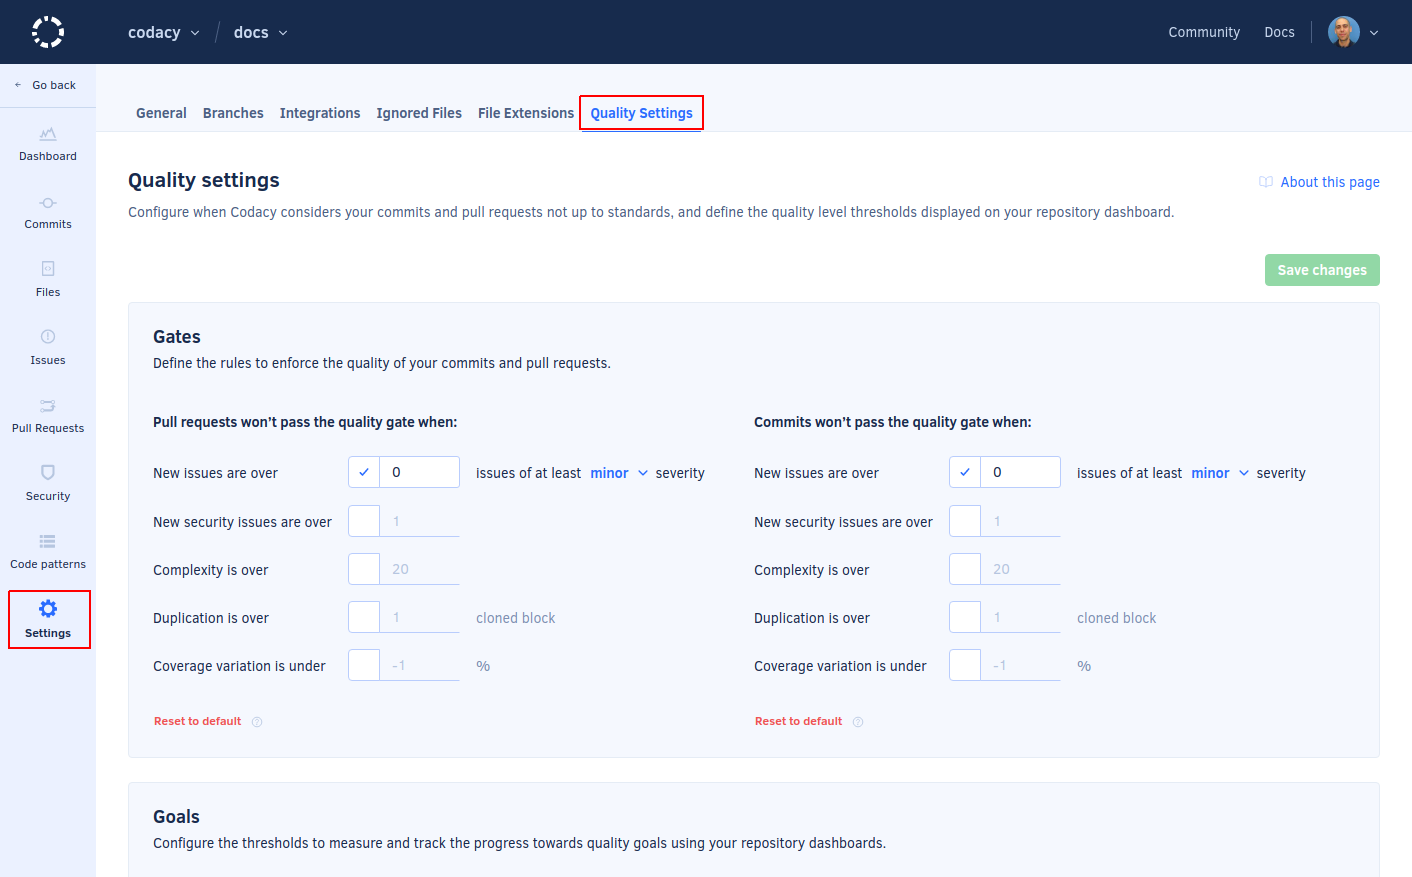
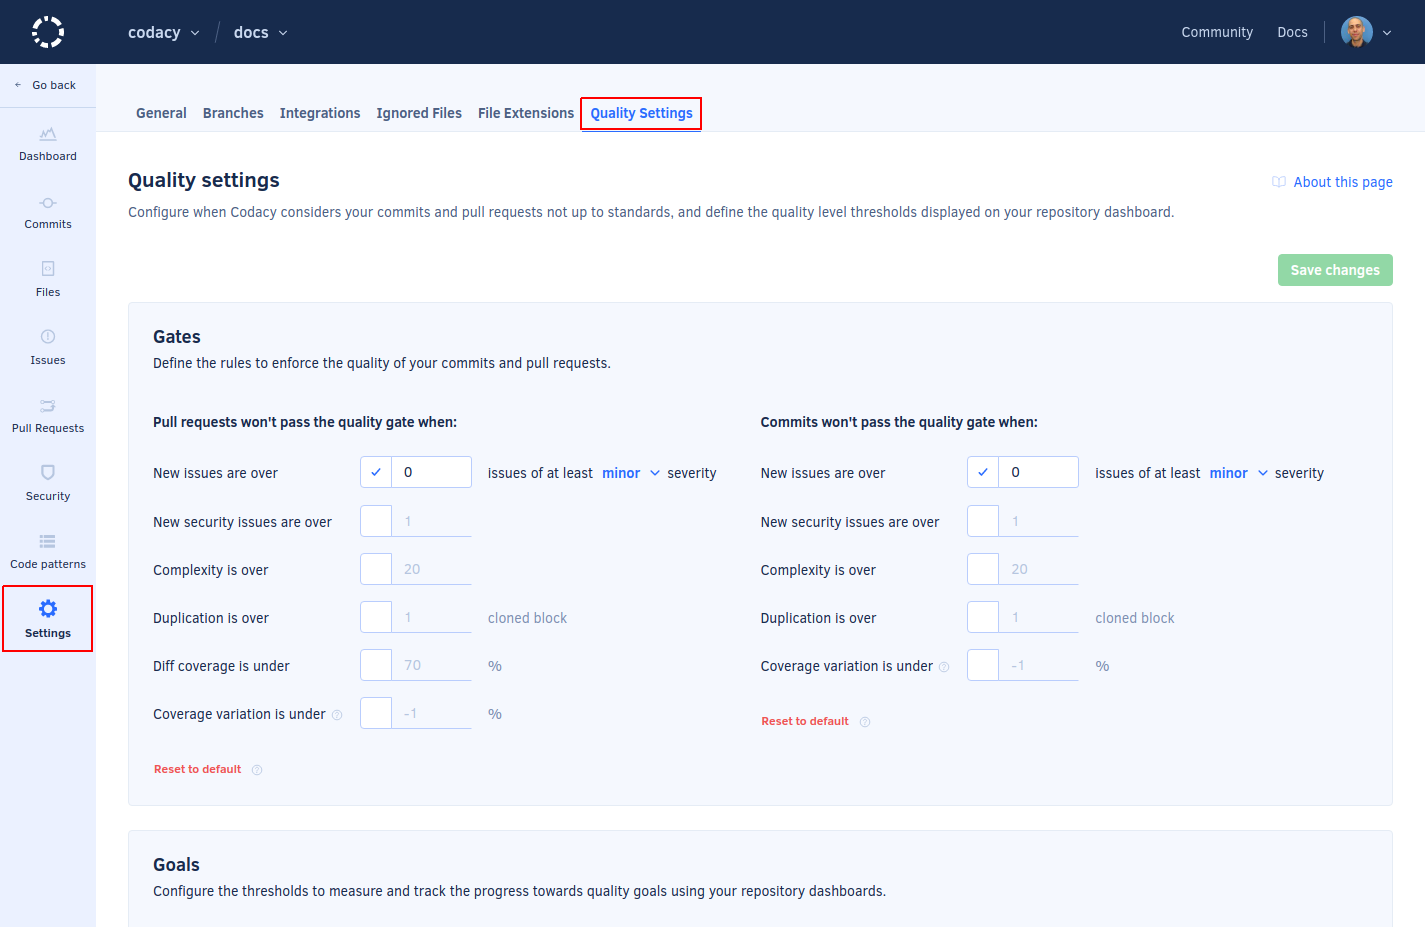
feature: Add diff coverage quality gate to Quality Settings CY-5568
Merged from https://github.com/codacy/docs/pull/1044

diff --git a/docs/repositories-configure/adjusting-quality-settings.md b/docs/repositories-configure/adjusting-quality-settings.md
@@ -12,28 +12,28 @@ The following sections explain the settings in detail.
 
 These settings configure when Codacy reports pull requests and commits as not up to standards.
 
-!!! important
+Depending on the result of applying the quality gate rules, Codacy updates the color of the metrics on the [pull request or commit quality overview](../repositories/pull-requests.md#pull-request-quality-overview) and reports the corresponding pull request or commit status on your Git provider, if enabled.
+
+!!! note
+    **To enable pull request status** directly on your Git provider pull requests, see [GitHub](../repositories-configure/integrations/github-integration.md#configuring-the-github-integration), [GitLab](../repositories-configure/integrations/gitlab-integration.md#configuring-the-gitlab-integration), or [Bitbucket](../repositories-configure/integrations/bitbucket-integration.md#configuring-the-bitbucket-integration), depending on your Git provider. For Codacy to report the coverage status on your pull requests you must also turn on the rule **Diff coverage is under** or **Coverage variation is under**.
+
     **If you want to block merging pull requests** that aren't up to standards see [How do I block merging pull requests using Codacy as a quality gate?](../faq/general/how-do-i-block-merging-prs-using-codacy-as-a-quality-gate.md)
 
 ![Quality gates](images/quality-settings-gates.png)
 
--   **New issues are over:** Pull requests or commits are marked not up to standards if the number of issues introduced that have at least the specified severity level is higher than the set value. The default value is 0.
--   **New security issues are over:** Pull requests or commits are marked not up to standards if the number of security issues introduced is higher than the set value. By default, this setting is off.
--   **Complexity is over:** Pull requests or commits are marked not up to standards if the introduced complexity is higher than the set value. By default, this setting is off.
--   **Duplication is over:** Pull requests or commits are marked not up to standards if the number of clones introduced is higher than the set value. By default, this setting is off.
--   **Coverage variation is under:** Pull requests or commits are marked not up to standards if they introduce a variation to coverage below the set value. The maximum value is 1%. By default, this setting is off.
+-   **New issues are over:** Pull requests or commits are marked not up to standards if the number of issues introduced that have at least the specified severity level is higher than the set value. This rule is enabled with a value of 0 by default.
+-   **New security issues are over:** Pull requests or commits are marked not up to standards if the number of security issues introduced is higher than the set value.
+-   **Complexity is over:** Pull requests or commits are marked not up to standards if the introduced complexity is higher than the set value.
+-   **Duplication is over:** Pull requests or commits are marked not up to standards if the number of clones introduced is higher than the set value.
+-   **Diff coverage is under:** Pull requests are marked not up to standards if the diff coverage of the pull request is lower than the set value. This rule is only available for pull requests.
+-   **Coverage variation is under:** Pull requests or commits are marked not up to standards if they introduce a variation to coverage lower than the set value. The maximum value is 1%.
 
     !!! tip
         To ensure that commits and pull requests:
 
-        -   **Can decrease** the coverage, set the value to a negative percentage
-        -   **Cannot decrease** the coverage, set the value to 0%
         -   **Must improve** the coverage, set the value to 1%
-
-    !!! note
-        Turn on the rule **Coverage variation is under** for Codacy to report the coverage status directly on your pull requests.
-
-        For more details on how to enable pull request status, see [GitHub](../repositories-configure/integrations/github-integration.md#configuring-the-github-integration), [GitLab](../repositories-configure/integrations/gitlab-integration.md#configuring-the-gitlab-integration), or [Bitbucket](../repositories-configure/integrations/bitbucket-integration.md#configuring-the-bitbucket-integration), depending on your Git provider.
+        -   **Can't decrease** the coverage, set the value to 0%
+        -   **Can decrease** the coverage, set the value to a negative percentage
 
 ## Goals
 

diff --git a/docs/faq/general/how-do-i-block-merging-prs-using-codacy-as-a-quality-gate.md b/docs/faq/general/how-do-i-block-merging-prs-using-codacy-as-a-quality-gate.md
@@ -55,7 +55,7 @@ Depending on factors such as the current code quality of your repository and the
     -   Considerable drops in code coverage
 
 !!! important
-    **If you want to use code coverage** to block merging pull requests that don't meet your standards, make sure that you enable the rule **Coverage variation is under**. This is required for Codacy to report the coverage status directly on your pull requests.
+    **If you want to use code coverage** to block merging pull requests that don't meet your standards, make sure that you enable the rule **Diff coverage is under** or **Coverage variation is under**. This is required for Codacy to report the coverage status directly on your pull requests.
 
 ![Adjusting the quality settings](../../repositories-configure/images/quality-settings.png)
 
